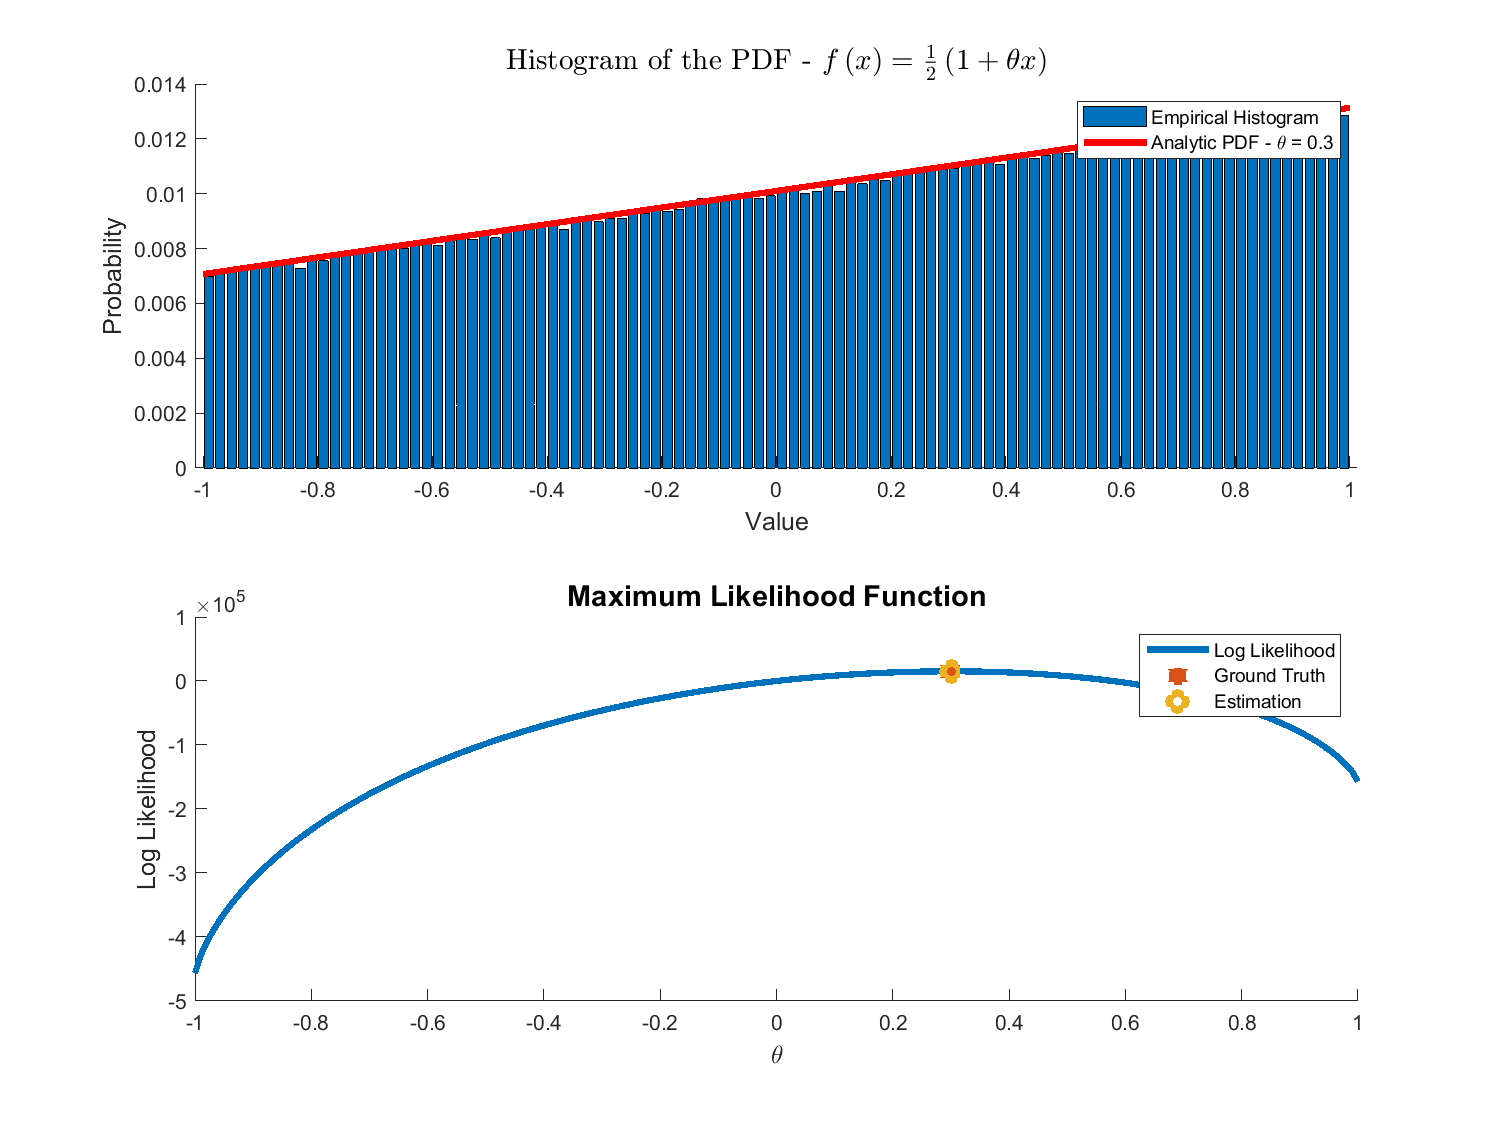
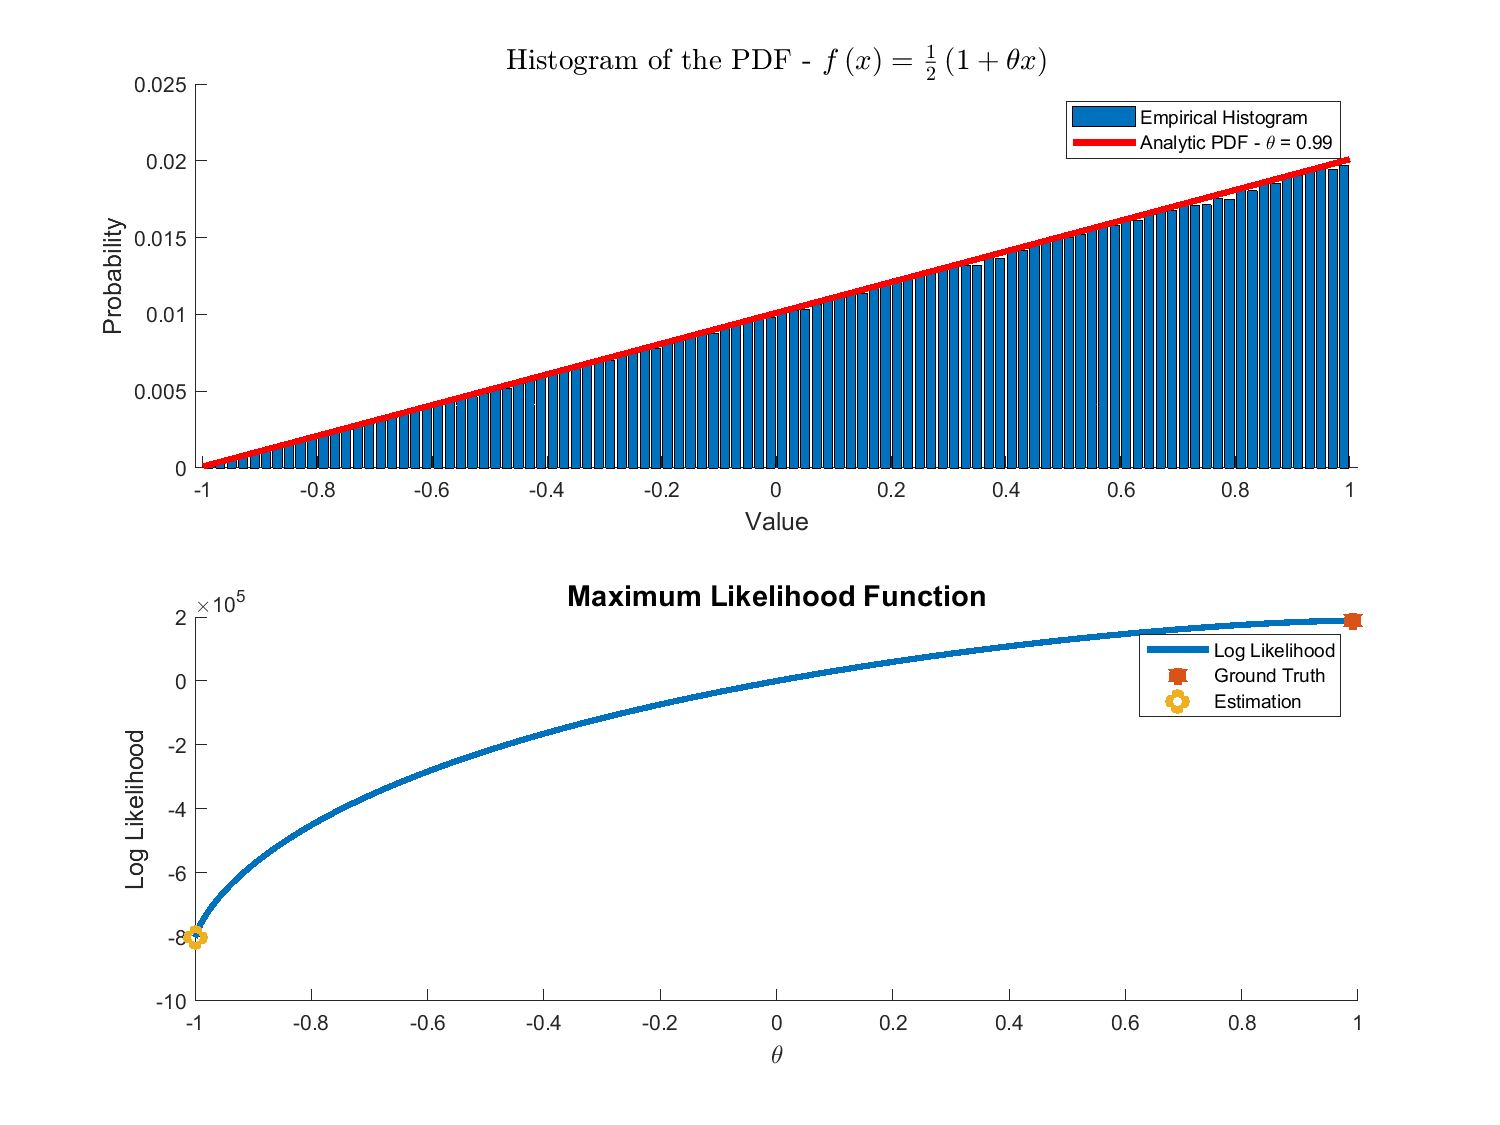
Added solution to https://math.stackexchange.com/questions/2821115 - Maximum Likelihood Estimator (MLE) of \theta for the PDF f(x; \theta) = 0.5 (1 + \theta x).

diff --git a/Mathematics/Q2821115/Q2821115.m b/Mathematics/Q2821115/Q2821115.m
@@ -43,7 +43,7 @@ funTranformation = root(funCdf - varU, varX);
 %% Simulation Parameters
 
 numSamples = 1e6;
-paramTheta = 0.3;
+paramTheta = 0.99;
 
 gridSamplesData     = 100;
 gridSamplesTheta    = 200;
@@ -73,6 +73,7 @@ for ii = 1:gridSamplesTheta
 end
 
 paramThetaEst = fzero(hObjFun, 0);
+paramThetaEst = min(max(paramThetaEst, -1), 1);
 
 
 %% Display Results

diff --git a/README.md b/README.md
@@ -1,2 +1,9 @@
 # StackExchangeCodes
 Codes related to answers on StackExchange Network.
+
+## To Do List
+
+ *	[Finding reference audio in test audio and cropping accordingly](https://dsp.stackexchange.com/questions/50003).
+ * 	[Minimize xQy subject to ∥x∥2+∥y∥2=1](https://math.stackexchange.com/questions/2823133).
+ * 	[Projection Operator onto L1 Ball with Box Constraints](https://math.stackexchange.com/questions/2824418).
+ * 	[Quadratic Form with L1 Regularization and Box Constraints - Coordinate Descent Iteration](https://math.stackexchange.com/questions/888312).
